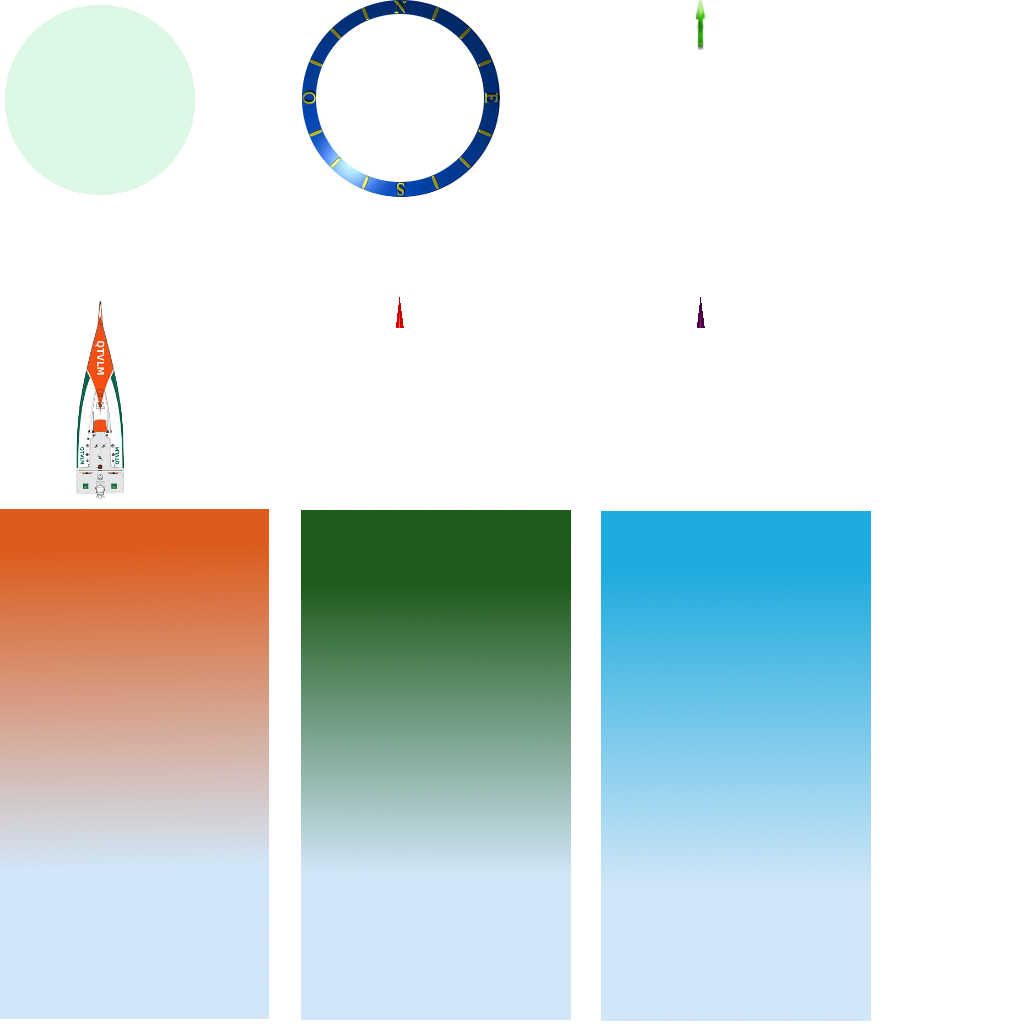
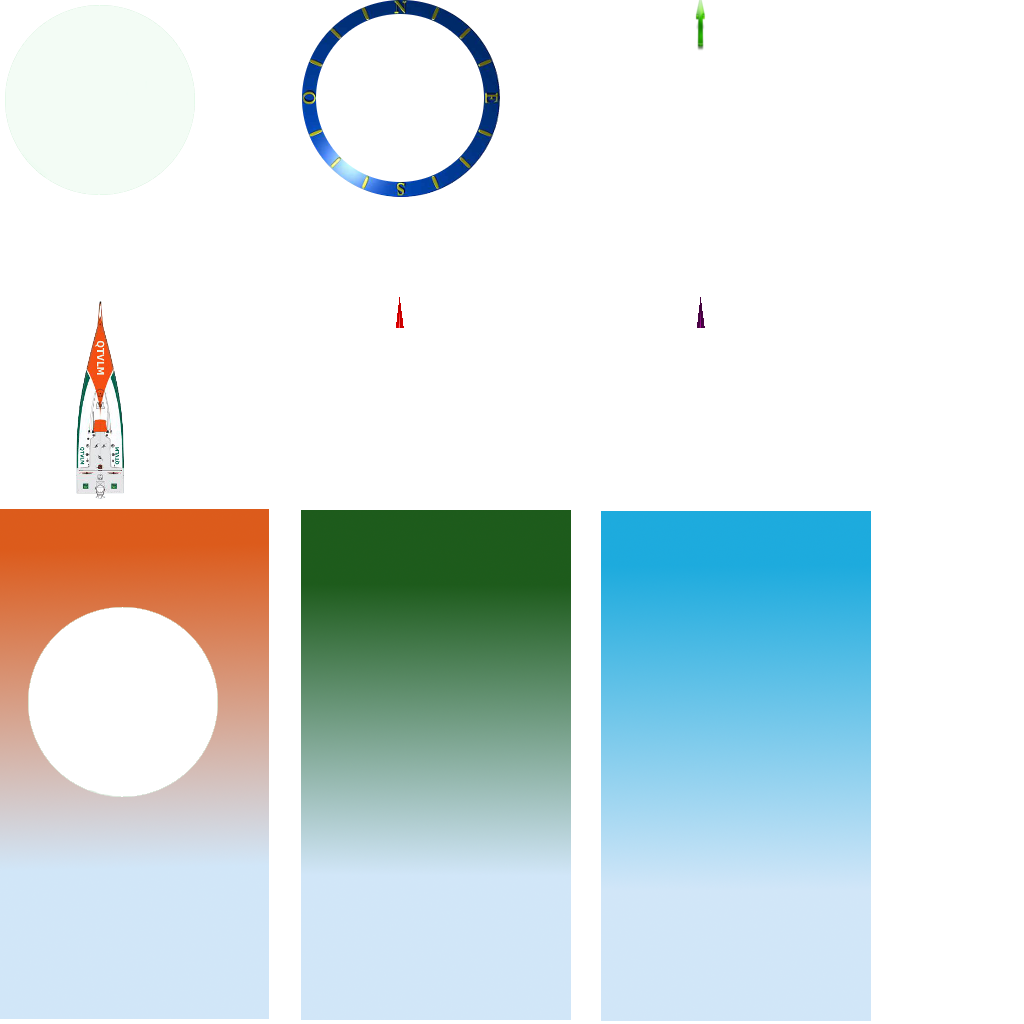
Continuing new vlm board (take also img directory)
git-svn-id: svn://svn.code.sf.net/p/qtvlm/code/branches/qtVlm_dev@1767 2387b160-4621-4e8a-be36-40ea10d72da2

Changed region(s): [[0.0312, 0.5938, 0.2188, 0.7812]]

diff --git a/src/Dialogs/BoardVlmNew.cpp b/src/Dialogs/BoardVlmNew.cpp
@@ -9,6 +9,7 @@
 #include <QMessageBox>
 #include <QStyleFactory>
 #include "boatVLM.h"
+#include <QGraphicsDropShadowEffect>
 BoardVlmNew::BoardVlmNew(MainWindow *main)
     : QDialog(main)
 
@@ -96,6 +97,8 @@ BoardVlmNew::BoardVlmNew(MainWindow *main)
     this->lab_backTab2->installEventFilter(this);
     this->lab_backTab3->installEventFilter(this);
     this->lab_back->installEventFilter(this);
+    QGraphicsDropShadowEffect *shadow=new QGraphicsDropShadowEffect(this);
+    this->setGraphicsEffect(shadow);
 }
 BoardVlmNew::~BoardVlmNew()
 {
